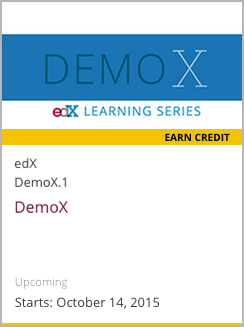
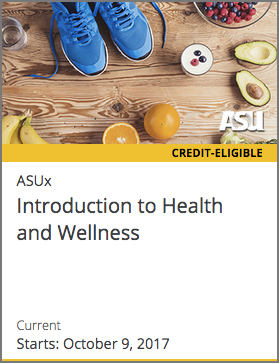
DOC-3799 SFD:Make completing credit step more obvious

diff --git a/en_us/students/source/SFD_credit_courses.rst b/en_us/students/source/SFD_credit_courses.rst
@@ -4,7 +4,7 @@
 Taking a Course for Academic Credit
 ###################################
 
-This topic describes taking an edX course for academic credit.
+This topic provides information about taking an edX course for academic credit.
 
 .. contents::
   :local:
@@ -14,18 +14,24 @@ This topic describes taking an edX course for academic credit.
 Overview of Academic Credit
 ******************************
 
-Some edX courses allow you to purchase academic credit that you can apply
-toward a degree at a college or university. When a course offers academic
-credit, you see an "Earn Credit" indication for the course in the edX list of
-courses.
+Some edX courses allow you to purchase academic credit that you can apply toward
+a degree at a college or university. When a course offers academic credit, you
+see a "Credit-Eligible" indication for the course in the edX list of courses.
 
 .. image:: /Images/SFD_Credit_YellowIndicator.png
  :width: 200
- :alt: A course tile showing the "Earn Credit" indication.
+ :alt: A course tile showing the "Credit-Eligible" indication.
 
-To earn academic credit, you must meet a series of requirements, such as taking
-proctored exams. After you meet the requirements, you can purchase academic
-credit for a specific time after the course ends (usually one year).
+To earn academic credit for a course, you must enroll in the verified track and
+pass the course.
+
+After you meet the course requirements, you have one year after the course
+ends to purchase academic credit on edX.org.
+
+.. note:: To complete the process, after you purchase academic credit, you must
+   contact the issuing college or university to receive the official notice of
+   academic credit, such as a transcript.
+
 
 *****************************
 Enroll for Academic Credit
@@ -36,27 +42,27 @@ for the course.
 
 For more information about enrolling, see :ref:`SFD Enrolling in a Course`.
 
+.. note:: To be eligible for academic credit, you must complete the photo ID
+   verification process. If you choose not to complete ID verification at any
+   time, you are no longer eligible to receive academic credit for the course.
+   However, you can still receive a verified certificate in the course.
+
 *****************************
 Complete Proctored Exams
 *****************************
 
-When you take a course for academic credit, you may have to complete proctored
+In a credit-eligible course, you might have to take one or more proctored
 exams. Proctored exams are exams that have time limits and that use online
 proctoring software to monitor activity. To pass a proctored exam, you must
-receive both a passing grade for the exam itself and a Pass result when the
-recording of your proctoring session is reviewed.
+receive both a passing grade for the exam itself and a "Satisfactory" result
+when the recording of your proctoring session is reviewed.
 
 For more information about proctored exams, see :ref:`SFD_ProctoredExams`.
 
-.. note:: **To be eligible for academic credit, you must complete all identity
- checks.** If you choose not to complete an identity check at any time, you
- are no longer eligible for credit. You can still receive a verified
- certificate in the course.
 
-
-*****************************
-Keep Track of Your Progress
-*****************************
+*********************************
+Keep Track of Credit Requirements
+*********************************
 
 When you are enrolled in a course for academic credit, your **Progress** page
 includes a **Requirements for Course Credit** section that lists all of the
@@ -76,14 +82,11 @@ individual requirement.
 Purchase Academic Credit
 *****************************
 
-After you meet the requirements for credit, the option to purchase academic
-credit for the course appears on your dashboard below the option to download
-your certificate. You also receive an email from edX. You can usually purchase
-credit up to one year after the course ends.
+After you pass the course and meet the requirements for credit, you have up to
+one year to purchase academic credit on edx.org.
 
-When you purchase credit, you submit a payment to edX, and then complete any
-additional steps that the specific organization that grants the credit
-requires.
+After you purchase academic credit, you must complete the credit process at
+the credit-issuing college or university.
 
 .. note:: More than one organization might offer credit for the same course.
  If this is the case, you select the organization that you want when you
@@ -101,15 +104,37 @@ To purchase academic credit, follow these steps.
    process is complete, a confirmation page opens, and you receive an email
    message.
 
-#. On the payment confirmation page, a notification informs you if the
-   organization requires you to complete additional steps to receive credit.
-   If the organization has additional requirements, select **Complete Credit**
-   to go to that organization's website.
+#. On the payment confirmation page, select **Complete Credit** to go to the
+   credit-issuing organization's website to complete the credit process.
 
-After the organization has evaluated your information, a message on your
-dashboard indicates whether the organization has granted you academic credit
-for the course and provides a link to the organization. You also receive an
-email that indicates whether you have received academic credit for the course.
+.. note:: After you purchase academic credit, you must contact the issuing
+   college or university to complete the credit process. This process usually
+   includes receiving the official notice of academic credit, such as a
+   transcript.
 
-If you do not receive credit for the course, contact the organization that
-issues the credit directly.
+
+***************************
+Complete the Credit Process
+***************************
+
+After you have purchased academic credit on edx.org, you must complete the
+credit process at the credit-issuing organization. For example, you must
+contact the issuing college or university to receive its official notice of
+academic credit, such as a transcript.
+
+You can complete the credit process in several ways.
+
+* Immediately after you purchase credit on edx.org, select **Complete
+  Credit** on the payment confirmation page to go to the organization's website.
+
+* At any time after purchasing credit on edx.org, select **Get Credit** from the
+  course card on your edX dashboard to go to the organization's website.
+
+.. note:: After the organization has evaluated your information, a message on
+   your dashboard indicates whether the organization has granted you academic
+   credit for the course and provides a link to the organization. You also
+   receive an email that indicates whether you have received academic credit for
+   the course.
+
+For answers to questions about receiving academic credit for the course, you can
+directly contact the organization that issues the credit.
